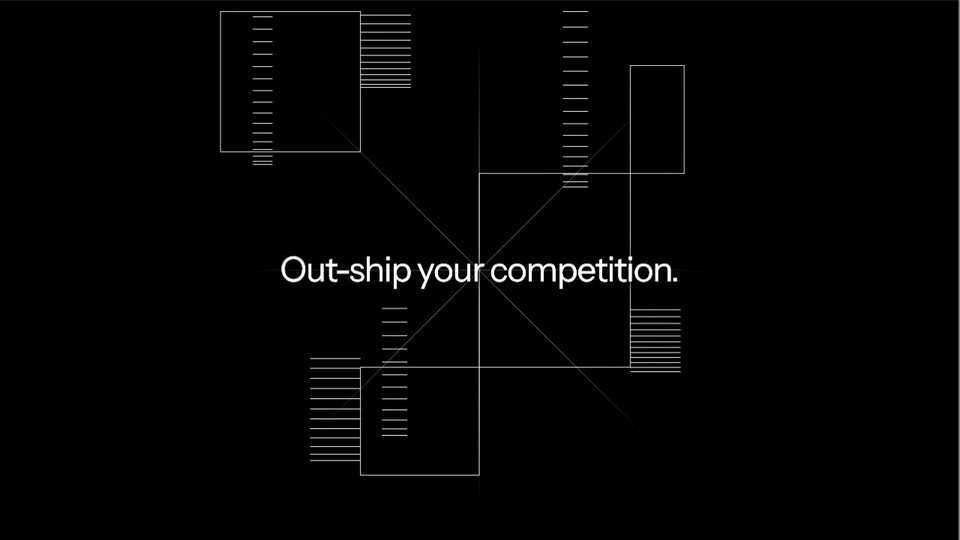
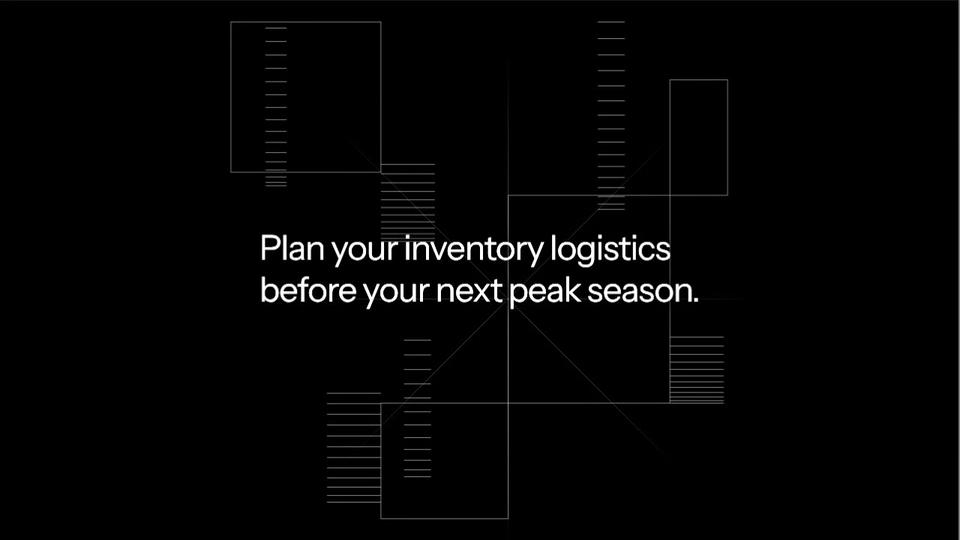
Logistics Motion: centre the hero visual behind the text, fix hash parsing, re-record clip
Claude-Session: https://claude.ai/code/session_01AHeBdxcrKggxwkWMLeyQSY

diff --git a/clearco-logistics-motion/index.html b/clearco-logistics-motion/index.html
@@ -40,7 +40,7 @@ const BG_HERO=(()=>{
   const STEP=36,TOP=-20,BOT=520;
   const stacks=ST.map(s=>({x:s[0],y:s[1],base:s[1],h:s[2],w:s[3],n:s[4],start:s[5]*1000,range:s[6],mv:null,next:null}));
   let k=1,ox=0,oy=0;
-  function resize(W,H){k=Math.min(W,H)/600; ox=W/2-288*k; oy=H/2-288*k;}
+  function resize(W,H){k=Math.min(W,H)/560; ox=W/2-258*k; oy=H/2-258*k;}   /* centre the boxes' bounding box (0..516), not the ray origin */
   function off(st,i){const t=i/(st.n-1);return -st.h/2+st.h*(1-Math.pow(1-t,1.35));}
   function step(st,now){
     if(st.next===null) st.next=now+st.start;
@@ -221,7 +221,7 @@ function frame(now){
 }
 const link=document.createElement('link'); link.rel='stylesheet';
 link.href='https://fonts.googleapis.com/css2?family=Instrument+Sans:wght@400&display=swap'; document.head.appendChild(link);
-const START=+((location.hash.match(/t=([d.]+)/)||[])[1]||0);   // #t=4.6 starts the sequence part way in (used for the home page clip)
+const START=+((location.hash.match(/t=([0-9.]+)/)||[])[1]||0);   // #t=4.6 starts the sequence part way in (used for the home page clip)
 const boot=()=>{layout();t0=performance.now()-START*1000;ready=true;};
 Promise.race([document.fonts.load('400 40px "Instrument Sans"'),new Promise(r=>setTimeout(r,1500))]).then(boot,boot);
 function setVariant(v,restart){
@@ -231,7 +231,7 @@ function setVariant(v,restart){
   if(ready){BG.resize(W,H); if(restart) t0=performance.now();}
 }
 document.querySelectorAll('.sw button').forEach(b=>b.addEventListener('click',()=>setVariant(b.dataset.v,true)));
-let initV='hero'; try{initV=(location.hash.match(/v=(w+)/)||[])[1]||localStorage.getItem('logisticsMotionVariant')||'hero';}catch(e){}
+let initV='hero'; try{initV=(location.hash.match(/v=([a-z]+)/)||[])[1]||localStorage.getItem('logisticsMotionVariant')||'hero';}catch(e){}
 setVariant(initV,false);
 addEventListener('resize',()=>{if(ready)layout();});
 requestAnimationFrame(frame);
